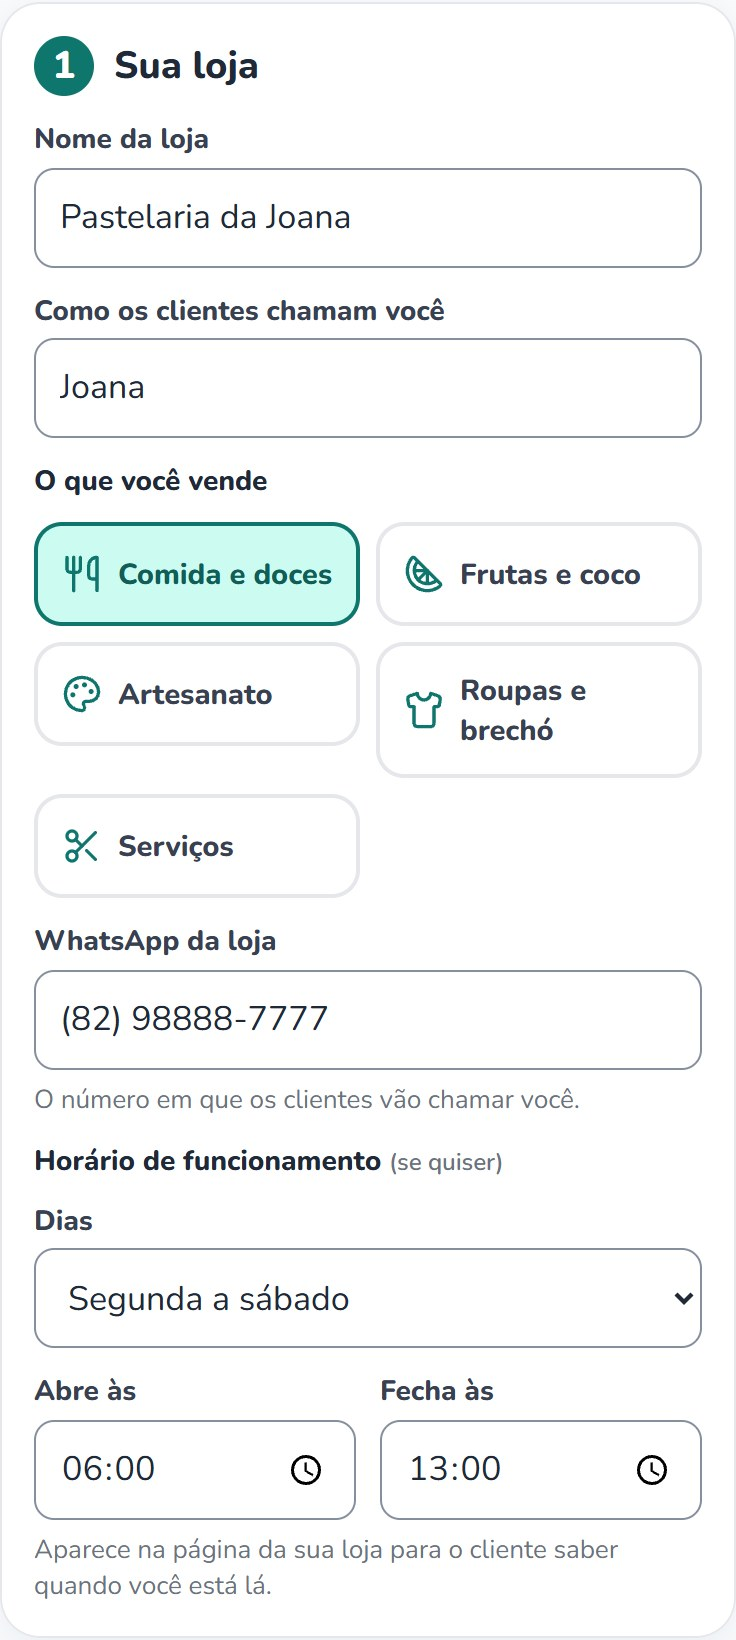
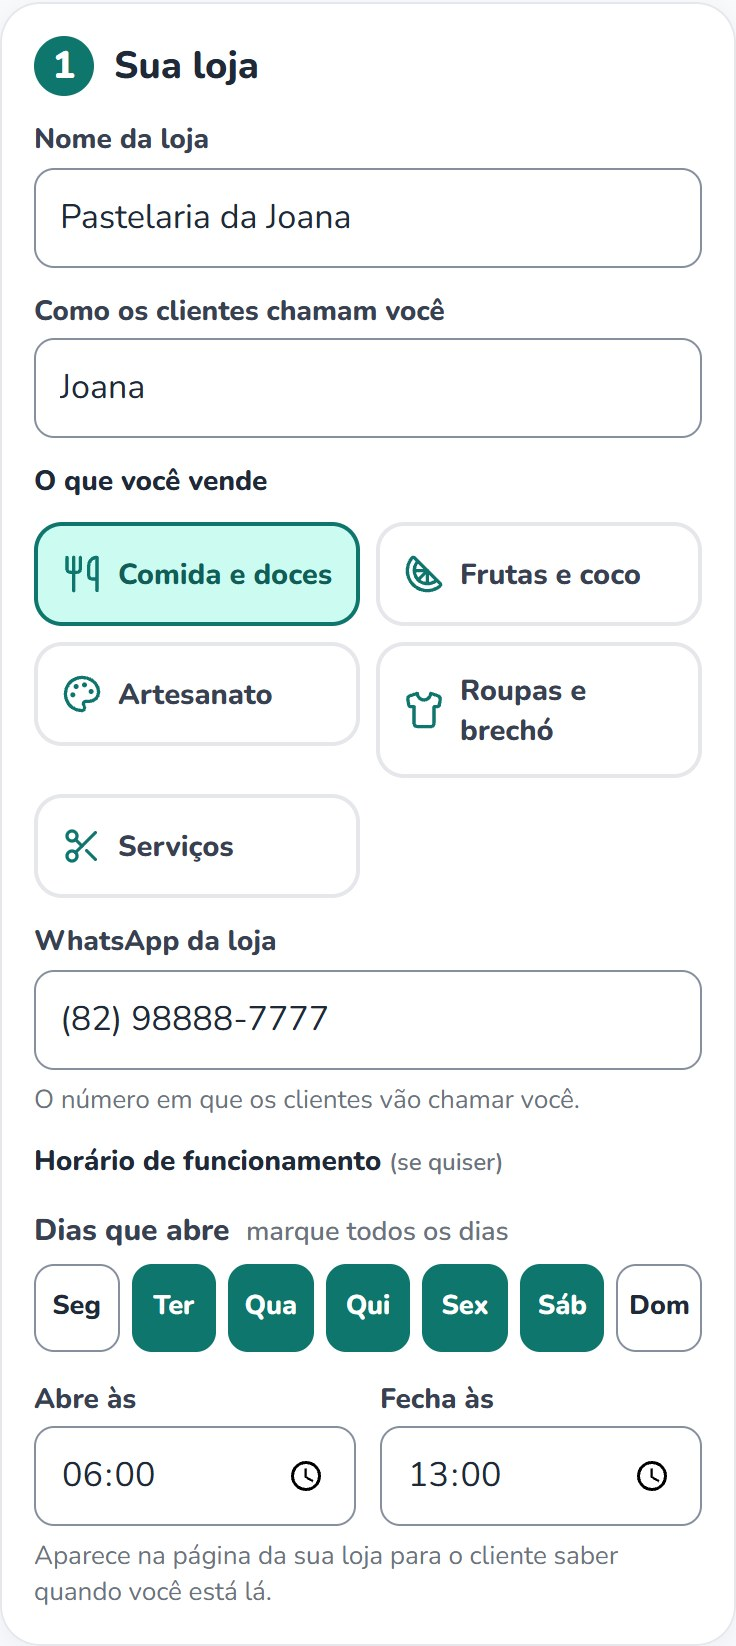
Horário: um quadradinho para cada dia da semana (terça a sábado, segunda/quarta/sexta...)

diff --git a/vitrine/templates/vitrine/cadastro_loja.html b/vitrine/templates/vitrine/cadastro_loja.html
@@ -4,7 +4,7 @@
 {% block cabeca %}{% if loja %}<link rel="stylesheet" href="https://cdnjs.cloudflare.com/ajax/libs/leaflet/1.9.4/leaflet.min.css">{% endif %}{% endblock %}
 
 {% block conteudo %}
-<section class="tela tela-cad-loja" data-ouvir="{% if editando %}Aqui você muda os dados da sua loja. Depois toque em Salvar.{% elif conta %}Cadastrar a sua loja é de graça e tem duas etapas. Agora é a etapa 1: crie a sua conta com seu nome, um usuário e uma senha. Depois toque em Criar conta e continuar.{% else %}Etapa 2: os dados da loja. Escreva o nome da loja, o que você vende, o seu WhatsApp e, se quiser, o horário. Depois marque no mapa onde fica a loja: toque no mapa ou no botão Usar onde estou. Foto e história são opcionais. No fim, toque em Cadastrar minha loja.{% endif %}">
+<section class="tela tela-cad-loja" data-ouvir="{% if editando %}Aqui você muda os dados da sua loja. Depois toque em Salvar.{% elif conta %}Cadastrar a sua loja é de graça e tem duas etapas. Agora é a etapa 1: crie a sua conta com seu nome, um usuário e uma senha. Depois toque em Criar conta e continuar.{% else %}Etapa 2: os dados da loja. Escreva o nome da loja, o que você vende, o seu WhatsApp e, se quiser, os dias e o horário em que abre. Depois marque no mapa onde fica a loja: toque no mapa ou no botão Usar onde estou. Foto e história são opcionais. No fim, toque em Cadastrar minha loja.{% endif %}">
   <header class="cl-topo">
     <span class="ajuda-selo"><i data-lucide="store" class="ic-l" aria-hidden="true"></i> {% if editando %}Minha loja{% else %}Para quem vende{% endif %}</span>
     <h1>{% if editando %}Dados da minha loja{% else %}Cadastre a sua loja{% endif %}</h1>
@@ -64,8 +64,12 @@
       <div class="campo cheio"><label for="{{ loja.whatsapp.id_for_label }}">{{ loja.whatsapp.label }}</label>{{ loja.whatsapp }}<small class="ajuda">{{ loja.whatsapp.help_text }}</small>{{ loja.whatsapp.errors }}</div>
       <fieldset class="campo cheio cl-horario">
         <legend class="rot">Horário de funcionamento <span class="opcional">(se quiser)</span></legend>
+        <fieldset class="cl-dias">
+          <legend class="cl-dias-tit">Dias que abre <small>marque todos os dias</small></legend>
+          <div class="cl-dias-lista">{% for op in loja.dias %}<label class="cl-dia">{{ op.tag }}<span>{{ op.choice_label|slice:":3" }}</span></label>{% endfor %}</div>
+          {{ loja.dias.errors }}
+        </fieldset>
         <div class="cl-campos cl-horario-campos">
-          <div class="campo"><label for="{{ loja.dias.id_for_label }}">Dias</label>{{ loja.dias }}{{ loja.dias.errors }}</div>
           <div class="campo"><label for="{{ loja.abre.id_for_label }}">Abre às</label>{{ loja.abre }}{{ loja.abre.errors }}</div>
           <div class="campo"><label for="{{ loja.fecha.id_for_label }}">Fecha às</label>{{ loja.fecha }}{{ loja.fecha.errors }}</div>
         </div>

diff --git a/vitrine/templates/vitrine/sobre.html b/vitrine/templates/vitrine/sobre.html
@@ -47,7 +47,7 @@
     <ol class="guia-lista" tabindex="0" aria-label="Telas do passo a passo (role para o lado)">
       <li class="guia-passo"><figure><img src="{% static 'vitrine/guia/loja-1.jpg' %}" alt="Tela: Toque em “Cadastrar minha loja”" loading="lazy"></figure><div><span class="ap-n laranja">1</span><b>Toque em “Cadastrar minha loja”</b><p>Fica no fim da página inicial, em <b>Para quem vende</b>, e no menu <b>Vender</b>.</p></div></li>
       <li class="guia-passo"><figure><img src="{% static 'vitrine/guia/loja-2.jpg' %}?v=3" alt="Tela: Crie a sua conta" loading="lazy"></figure><div><span class="ap-n laranja">2</span><b>Crie a sua conta</b><p>Só nome, usuário e senha. Você entra com o usuário.</p></div></li>
-      <li class="guia-passo"><figure><img src="{% static 'vitrine/guia/loja-3.jpg' %}?v=2" alt="Tela: Conte sobre a loja" loading="lazy"></figure><div><span class="ap-n laranja">3</span><b>Conte sobre a loja</b><p>Nome da loja, como os clientes chamam você, o que vende e o seu WhatsApp.</p></div></li>
+      <li class="guia-passo"><figure><img src="{% static 'vitrine/guia/loja-3.jpg' %}?v=3" alt="Tela: Conte sobre a loja" loading="lazy"></figure><div><span class="ap-n laranja">3</span><b>Conte sobre a loja</b><p>Nome da loja, como os clientes chamam você, o que vende e o seu WhatsApp.</p></div></li>
       <li class="guia-passo"><figure><img src="{% static 'vitrine/guia/loja-4.jpg' %}?v=2" alt="Tela: Digite o CEP e confira no mapa" loading="lazy"></figure><div><span class="ap-n laranja">4</span><b>Digite o CEP e confira no mapa</b><p>O site completa bairro e rua sozinho e leva o mapa até a sua rua. Arraste o marcador até a porta da loja.</p></div></li>
       <li class="guia-passo"><figure><img src="{% static 'vitrine/guia/loja-5.jpg' %}?v=2" alt="Tela: Pronto, a loja já está no ar" loading="lazy"></figure><div><span class="ap-n laranja">5</span><b>Pronto, a loja já está no ar</b><p>No seu painel você coloca os produtos e acompanha a nota e as avaliações.</p></div></li>
     </ol>

diff --git a/vitrine/static/vitrine/app.css b/vitrine/static/vitrine/app.css
@@ -1209,8 +1209,7 @@ html.trava-rolagem,html.trava-rolagem body{overflow:hidden}
 
 /* horário de funcionamento */
 .cl-horario{border:0;padding:0;margin:0}
-.cl-horario-campos{grid-template-columns:repeat(3,minmax(0,1fr))}
-@media (max-width:560px){.cl-horario-campos{grid-template-columns:1fr 1fr}.cl-horario-campos .campo:first-child{grid-column:1/-1}}
+.cl-horario-campos{grid-template-columns:1fr 1fr}
 .cb-horario{display:flex;align-items:center;gap:6px;font-size:14px;color:#374151;margin:2px 0}
 .banca-horario{display:flex;align-items:center;gap:8px;font-weight:700}
 
@@ -1246,3 +1245,19 @@ html.trava-rolagem,html.trava-rolagem body{overflow:hidden}
 .f-grupo{min-width:0}
 .end-linha input{width:100%}
 .btn-local{white-space:normal;text-align:center}
+
+/* dias da semana do horario: um quadradinho por dia */
+.cl-dias{border:0;padding:0;margin:4px 0 10px;min-width:0}
+.cl-dias-tit{font-weight:800;font-size:15px;margin-bottom:6px}
+.cl-dias-tit small{font-weight:400;color:#4b5563;font-size:13px;margin-left:4px}
+.cl-dias-lista{display:grid;grid-template-columns:repeat(7,minmax(0,1fr));gap:6px}
+.cl-dia{position:relative;display:block}
+.cl-dia input{position:absolute;opacity:0;width:100%;height:100%;margin:0;cursor:pointer}
+.cl-dia span{display:flex;align-items:center;justify-content:center;min-height:44px;border:1.5px solid #858f9e;border-radius:10px;font-weight:800;font-size:14px;background:#fff;color:#1f2937}
+.cl-dia input:checked+span{background:var(--verde);border-color:var(--verde);color:#fff}
+.cl-dia input:focus-visible+span{outline:3px solid var(--laranja);outline-offset:2px}
+@media (max-width:359px){.cl-dias-lista{grid-template-columns:repeat(4,minmax(0,1fr))}}
+.app.contraste .cl-dia span{border:2px solid #000;color:#000}
+.app.contraste .cl-dia input:checked+span{background:#000;color:#fff}
+.cl-passo .cl-dias legend.cl-dias-tit{font-size:15px;font-weight:800;padding:0;margin:0 0 6px;display:block;color:#374151}
+.cl-dia span{font-size:13.5px}

diff --git a/vitrine/templates/vitrine/base.html b/vitrine/templates/vitrine/base.html
@@ -9,7 +9,7 @@
 <link rel="preconnect" href="https://fonts.googleapis.com">
 <link href="https://fonts.googleapis.com/css2?family=Nunito:wght@400;600;700;800&display=swap" rel="stylesheet">
 {% block cabeca %}{% endblock %}
-<link rel="stylesheet" href="{% static 'vitrine/app.css' %}?v=73">
+<link rel="stylesheet" href="{% static 'vitrine/app.css' %}?v=75">
 </head>
 <body>
 <div class="app">

diff --git a/vitrine/models.py b/vitrine/models.py
@@ -31,13 +31,17 @@ class Banca(models.Model):
         validators=[RegexValidator(r'^55\d{10,11}$', 'Use 55 + DDD + número, só dígitos.')],
         help_text='Ex.: 5582999998888',
     )
-    class Dias(models.TextChoices):
-        TODOS = 'todos', 'Todos os dias'
-        SEG_SEX = 'seg_sex', 'Segunda a sexta'
-        SEG_SAB = 'seg_sab', 'Segunda a sábado'
-        FDS = 'fds', 'Sábado e domingo'
+    # dias da semana em que a loja abre, guardados como 'seg,ter,qua' (o comerciante marca cada um)
+    DIAS_SEMANA = [('seg', 'Segunda'), ('ter', 'Terça'), ('qua', 'Quarta'), ('qui', 'Quinta'),
+                   ('sex', 'Sexta'), ('sab', 'Sábado'), ('dom', 'Domingo')]
 
-    dias = models.CharField('dias que abre', max_length=10, choices=Dias.choices, blank=True)
+    class Dias:  # combinações comuns, usadas nas lojas de demonstração
+        TODOS = 'seg,ter,qua,qui,sex,sab,dom'
+        SEG_SEX = 'seg,ter,qua,qui,sex'
+        SEG_SAB = 'seg,ter,qua,qui,sex,sab'
+        FDS = 'sab,dom'
+
+    dias = models.CharField('dias que abre', max_length=30, blank=True)
     abre = models.TimeField('abre às', null=True, blank=True)
     fecha = models.TimeField('fecha às', null=True, blank=True)
     aberta = models.BooleanField('aberta agora', default=True)
@@ -68,12 +72,28 @@ class Banca(models.Model):
         return self.responsavel.split(',')[0].strip()
 
     @property
+    def dias_texto(self):
+        """'Terça a sábado', 'Segunda, quarta e sexta', 'Todos os dias'..."""
+        codigos = [c for c, _ in self.DIAS_SEMANA]
+        marcados = [i for i, c in enumerate(codigos) if c in (self.dias or '').split(',')]
+        if not marcados:
+            return ''
+        nomes = [n for _, n in self.DIAS_SEMANA]
+        if len(marcados) == 7:
+            return 'Todos os dias'
+        seguidos = marcados == list(range(marcados[0], marcados[-1] + 1))
+        if seguidos and len(marcados) >= 3:
+            return f'{nomes[marcados[0]]} a {nomes[marcados[-1]].lower()}'
+        lista = [nomes[i] if k == 0 else nomes[i].lower() for k, i in enumerate(marcados)]
+        return lista[0] if len(lista) == 1 else ', '.join(lista[:-1]) + ' e ' + lista[-1]
+
+    @property
     def horario_texto(self):
         """Ex.: 'Segunda a sábado, das 7h às 18h30'. Vazio se o comerciante não informou."""
         hora = lambda h: f'{h.hour}h' + (f'{h.minute:02d}' if h.minute else '')
         partes = []
-        if self.dias:
-            partes.append(self.get_dias_display())
+        if self.dias_texto:
+            partes.append(self.dias_texto)
         if self.abre and self.fecha:
             partes.append(f'das {hora(self.abre)} às {hora(self.fecha)}')
         return ', '.join(partes)

diff --git a/vitrine/forms.py b/vitrine/forms.py
@@ -144,6 +144,8 @@ def confere_foto(arq):
 
 class LojaForm(forms.ModelForm):
     """Cadastro da loja feito pelo próprio comerciante, sem precisar de aprovação."""
+    dias = forms.MultipleChoiceField(label='Dias que abre', required=False, choices=Banca.DIAS_SEMANA,
+                                     widget=forms.CheckboxSelectMultiple)
     whatsapp = forms.CharField(label='WhatsApp da loja', max_length=20,
                                widget=forms.TextInput(attrs={'inputmode': 'tel', 'placeholder': '(82) 99999-8888', 'autocomplete': 'tel'}),
                                help_text='O número em que os clientes vão chamar você.')
@@ -174,10 +176,15 @@ class LojaForm(forms.ModelForm):
     def __init__(self, *args, **kwargs):
         super().__init__(*args, **kwargs)
         self.fields['categoria'].choices = list(Banca.Categoria.choices)  # sem a opção vazia "-----"
-        self.fields['dias'].choices = [('', 'Escolha (se quiser)')] + list(Banca.Dias.choices)
+        if not self.is_bound and self.instance.dias:
+            self.initial['dias'] = self.instance.dias.split(',')
         if self.instance.pk and not self.is_bound and self.instance.whatsapp:
             n = self.instance.whatsapp[2:]  # mostra (82) 99999-8888 e não 5582999998888
             self.initial['whatsapp'] = f'({n[:2]}) {n[2:-4]}-{n[-4:]}'
+
+    def clean_dias(self):
+        ordem = [c for c, _ in Banca.DIAS_SEMANA]
+        return ','.join(c for c in ordem if c in self.cleaned_data.get('dias', []))
 
     def clean_whatsapp(self):
         digitos = ''.join(c for c in self.cleaned_data['whatsapp'] if c.isdigit())
@@ -199,6 +206,8 @@ class LojaForm(forms.ModelForm):
             self.add_error('fecha' if abre else 'abre', 'Coloque a hora que abre e a hora que fecha.')
         elif abre and abre == fecha:
             self.add_error('fecha', 'A hora de fechar precisa ser diferente da hora de abrir.')
+        if abre and fecha and not dados.get('dias'):
+            self.add_error('dias', 'Marque os dias em que a loja abre.')
         return dados
 
     def clean_capa(self):

diff --git a/vitrine/tests.py b/vitrine/tests.py
@@ -286,10 +286,19 @@ class CadastroLojaTests(TestCase):
 
     def test_horario_de_funcionamento_aparece_na_loja(self):
         self.client.post(reverse('cadastro_loja'), self.CONTA)
-        self.client.post(reverse('cadastro_loja'), {**self.DADOS, 'l-dias': 'seg_sab', 'l-abre': '07:00', 'l-fecha': '18:30'})
+        self.client.post(reverse('cadastro_loja'), {**self.DADOS, 'l-dias': ['sab', 'ter', 'qua', 'qui', 'sex'], 'l-abre': '07:00', 'l-fecha': '18:30'})
         loja = Banca.objects.get(nome='Pastel da Joana')
-        self.assertEqual(loja.horario_texto, 'Segunda a sábado, das 7h às 18h30')
-        self.assertContains(self.client.get(reverse('banca', args=[loja.pk])), 'das 7h às 18h30')
+        self.assertEqual(loja.dias, 'ter,qua,qui,sex,sab')  # guarda na ordem da semana
+        self.assertEqual(loja.horario_texto, 'Terça a sábado, das 7h às 18h30')
+        self.assertContains(self.client.get(reverse('banca', args=[loja.pk])), 'Terça a sábado, das 7h às 18h30')
+
+    def test_dias_soltos_e_hora_sem_dia(self):
+        self.assertEqual(Banca(dias='seg,qua,sex').dias_texto, 'Segunda, quarta e sexta')
+        self.assertEqual(Banca(dias='seg,ter,qua,qui,sex,sab,dom').dias_texto, 'Todos os dias')
+        self.client.post(reverse('cadastro_loja'), self.CONTA)
+        r = self.client.post(reverse('cadastro_loja'), {**self.DADOS, 'l-abre': '07:00', 'l-fecha': '12:00'})
+        self.assertContains(r, 'Marque os dias em que a loja abre.')
+        self.assertFalse(Banca.objects.exists())
 
     def test_horario_pela_metade_e_recusado(self):
         self.client.post(reverse('cadastro_loja'), self.CONTA)

diff --git a/vitrine/migrations/0012_dias_por_dia_da_semana.py b/vitrine/migrations/0012_dias_por_dia_da_semana.py
@@ -1,0 +1,30 @@
+from django.db import migrations, models
+
+# antes: uma opção pronta ('seg_sab'); agora: cada dia marcado ('seg,ter,qua,qui,sex,sab')
+ANTIGO_PARA_NOVO = {
+    'todos': 'seg,ter,qua,qui,sex,sab,dom',
+    'seg_sex': 'seg,ter,qua,qui,sex',
+    'seg_sab': 'seg,ter,qua,qui,sex,sab',
+    'fds': 'sab,dom',
+}
+
+
+def converte(apps, schema_editor):
+    Banca = apps.get_model('vitrine', 'Banca')
+    for antigo, novo in ANTIGO_PARA_NOVO.items():
+        Banca.objects.filter(dias=antigo).update(dias=novo)
+
+
+def desfaz(apps, schema_editor):
+    Banca = apps.get_model('vitrine', 'Banca')
+    for antigo, novo in ANTIGO_PARA_NOVO.items():
+        Banca.objects.filter(dias=novo).update(dias=antigo)
+
+
+class Migration(migrations.Migration):
+    dependencies = [('vitrine', '0011_horario_funcionamento')]
+    operations = [
+        migrations.AlterField(model_name='banca', name='dias',
+                              field=models.CharField(blank=True, max_length=30, verbose_name='dias que abre')),
+        migrations.RunPython(converte, desfaz),
+    ]
